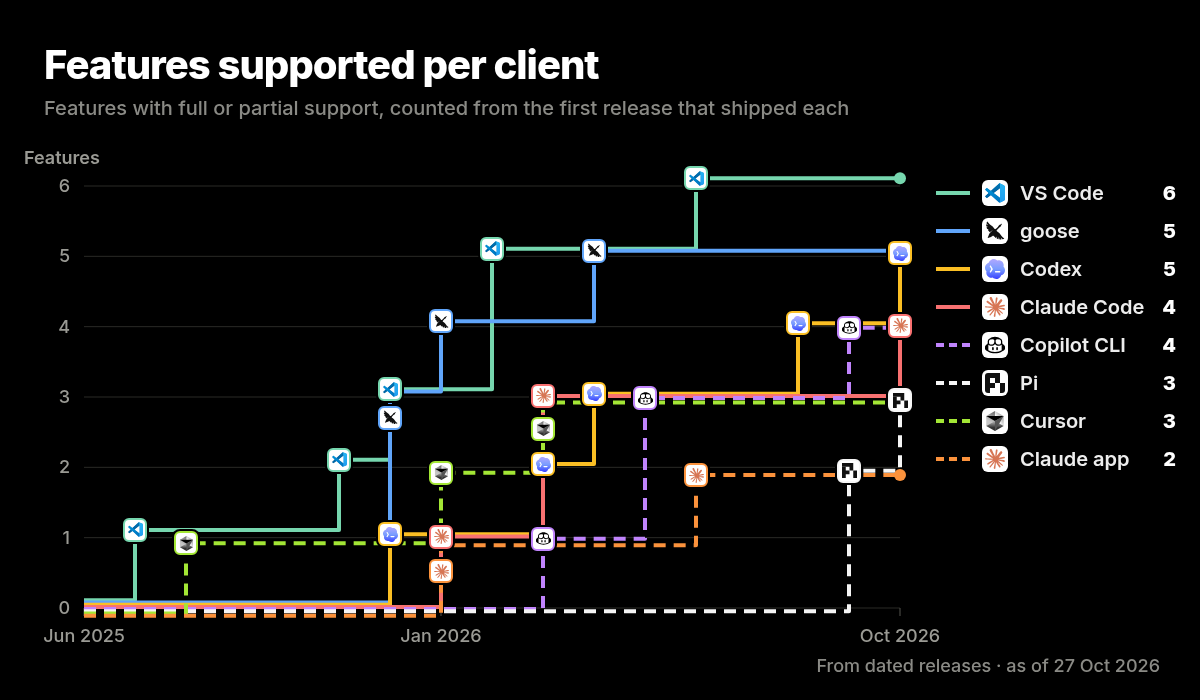
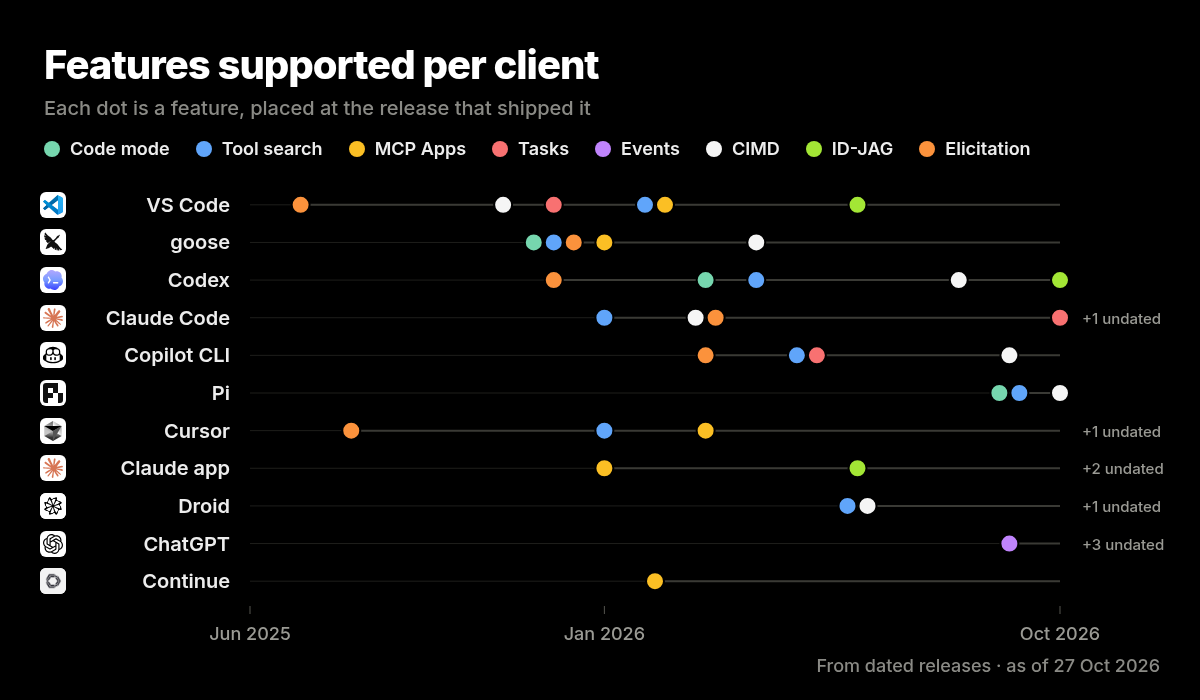
fix(charts): plot per-client features as a timeline, retitle the feature chart
The per-client chart drew one line per client with that client's own logo at
every step, which said nothing about which features it shipped. It is now one
row per client with a dot per feature, in the feature's colour from the chart
above, at the month of the release that shipped it, plus a count of supported
features with no date. The feature chart title now says what it shows.

Requested by guillaume@stackone.com in Slack

diff --git a/README.md b/README.md
@@ -95,9 +95,9 @@ xychart-beta
 ## Adoption over time
 
 <!-- adoption:start -->
-![Clients supporting each feature over time](assets/history-features.png)
+![Which MCP clients shipped each feature, and when](assets/history-features.png)
 
-![Features supported per client over time](assets/history-clients.png)
+![Features supported per client, one dot per feature at the release that shipped it](assets/history-clients.png)
 
 ```mermaid
 timeline
